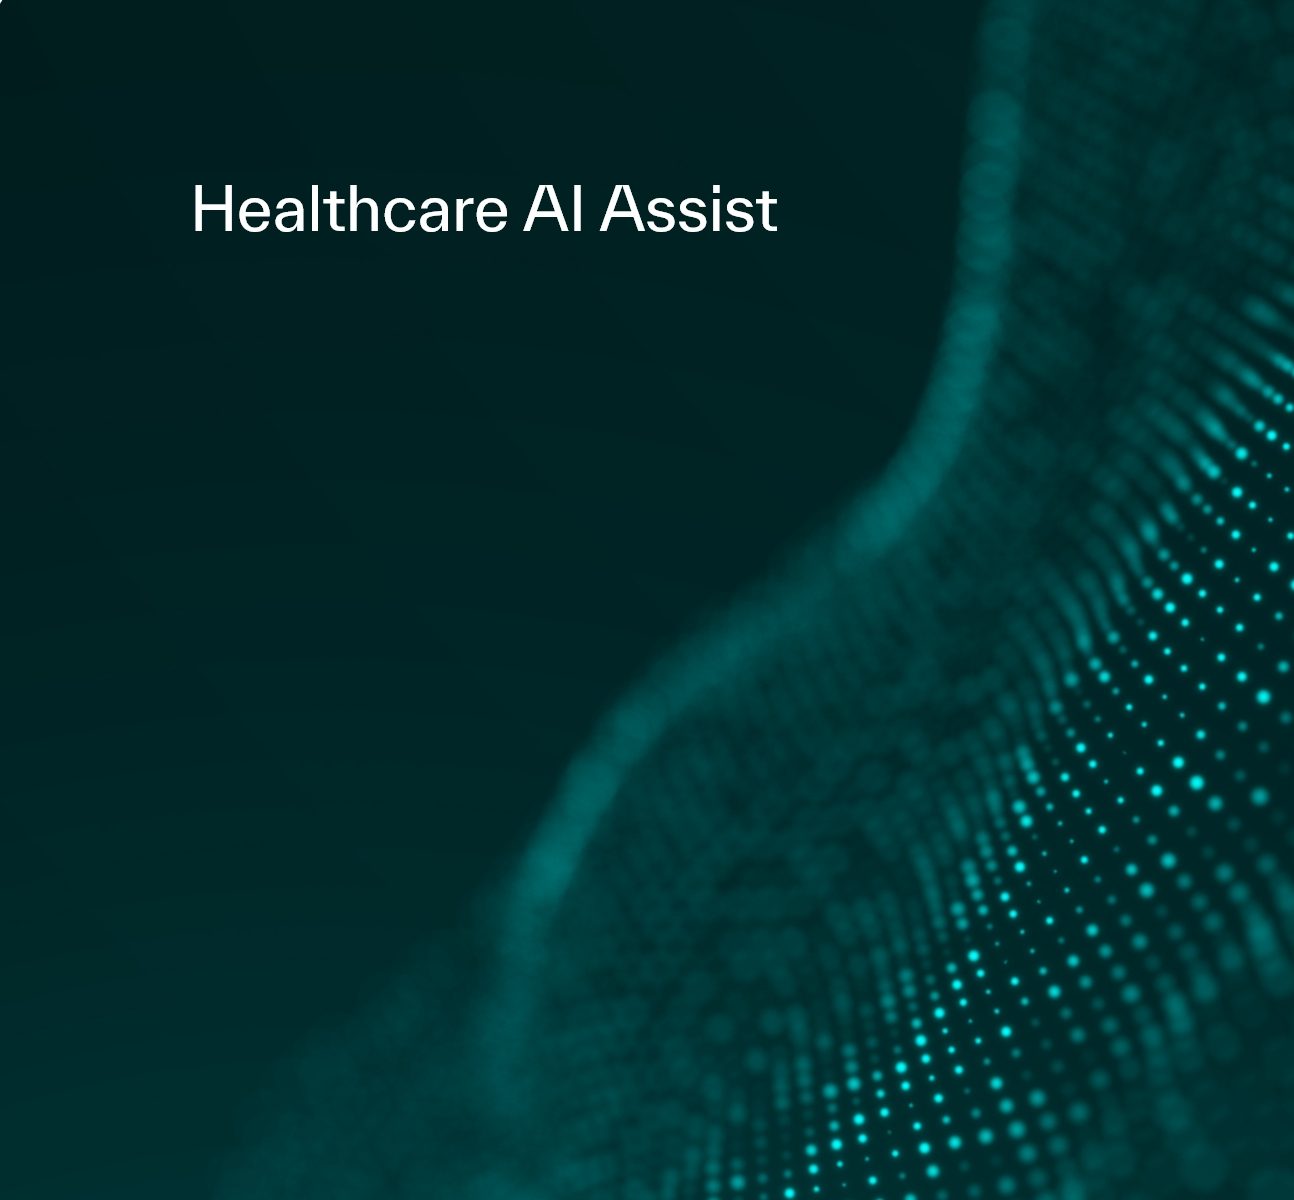
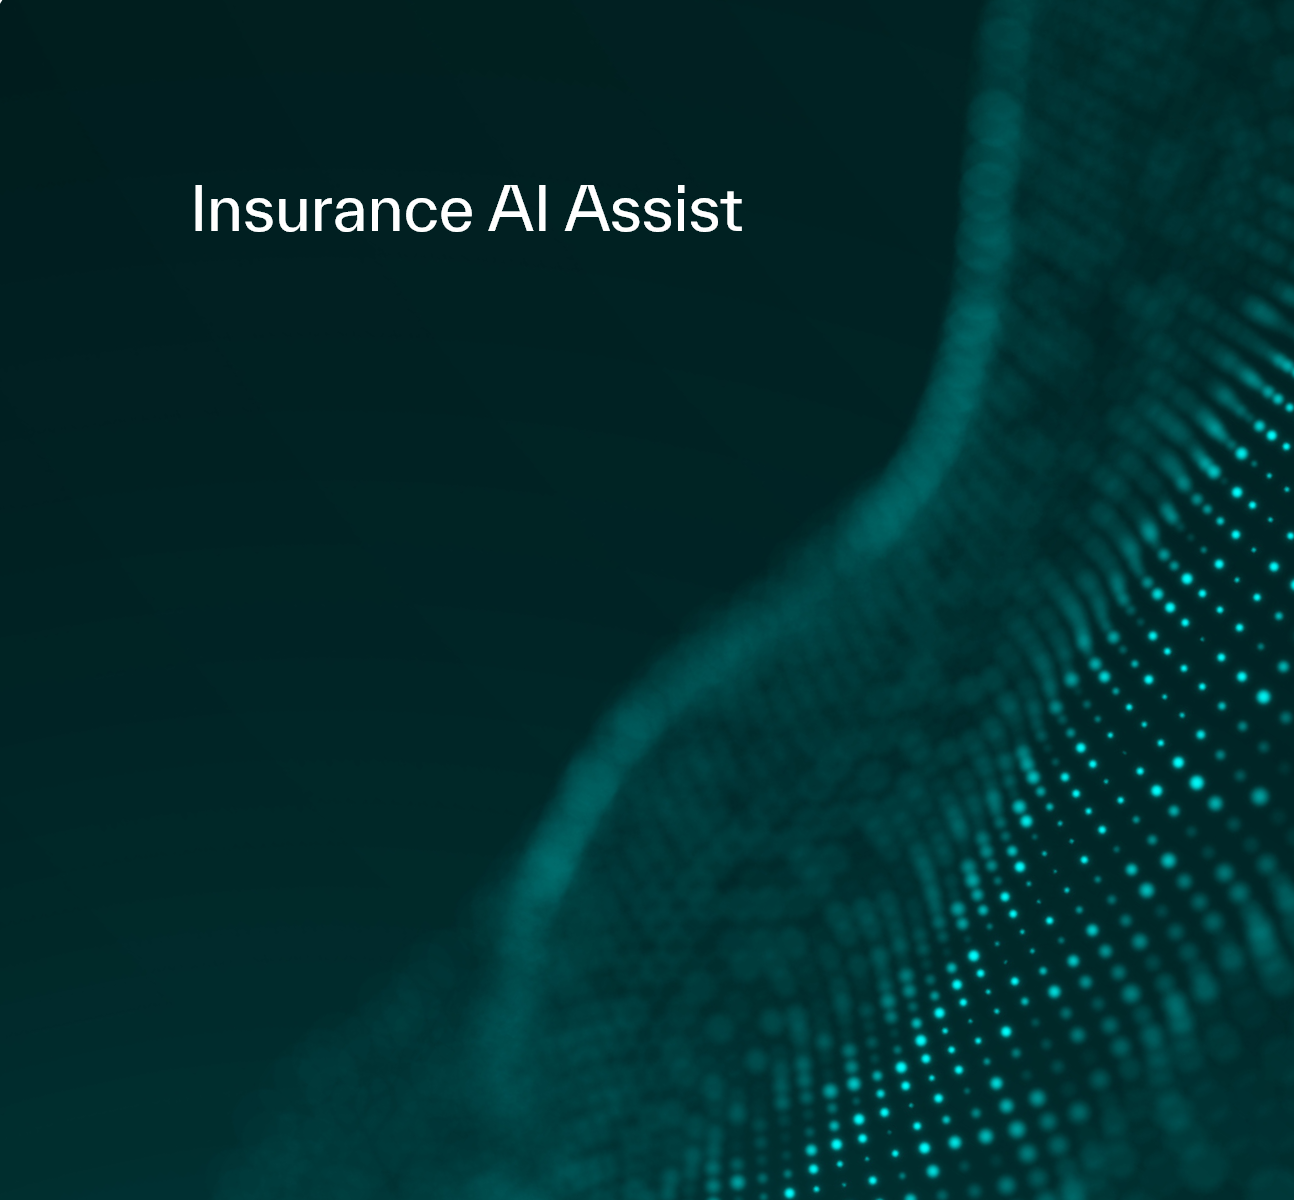
api integrated

Changed region(s): [[0.1546, 0.1542, 0.6182, 0.2158]]

diff --git a/src/components/dashboard.tsx b/src/components/dashboard.tsx
@@ -100,7 +100,7 @@ function DashboardPage() {
             </div>
             {isOpen && <div className='w-full h-full'>
                 <div className='model dg-shadow bg-gray-50'>
-                    <div className='green-bg px-[20px] py-[10px] border-b-[1px] border-[#9BEECA]'> Healthcare Assistant
+                    <div className='green-bg px-[20px] py-[10px] border-b-[1px] border-[#9BEECA]'> Insurance AI Assist
                         <Image src={CloseIcon} height={22} alt="close" className='float-right cursor-pointer' onClick={onClose}></Image>
                     </div>
                     <ChatBotComponent />

diff --git a/src/components/main-header.tsx b/src/components/main-header.tsx
@@ -1,7 +1,7 @@
 "use client";
 
 import Image from 'next/image';
-import kyndrylSvg from '../img/Healthcare_AI_Assist.svg';
+import kyndrylSvg from '../img/Insurance AI Assist.svg';
 import UserSVg from '../img/user.svg';
 import UserFilledSVg from '../img/user--avatar--filled.svg';
 import { useState } from 'react';
